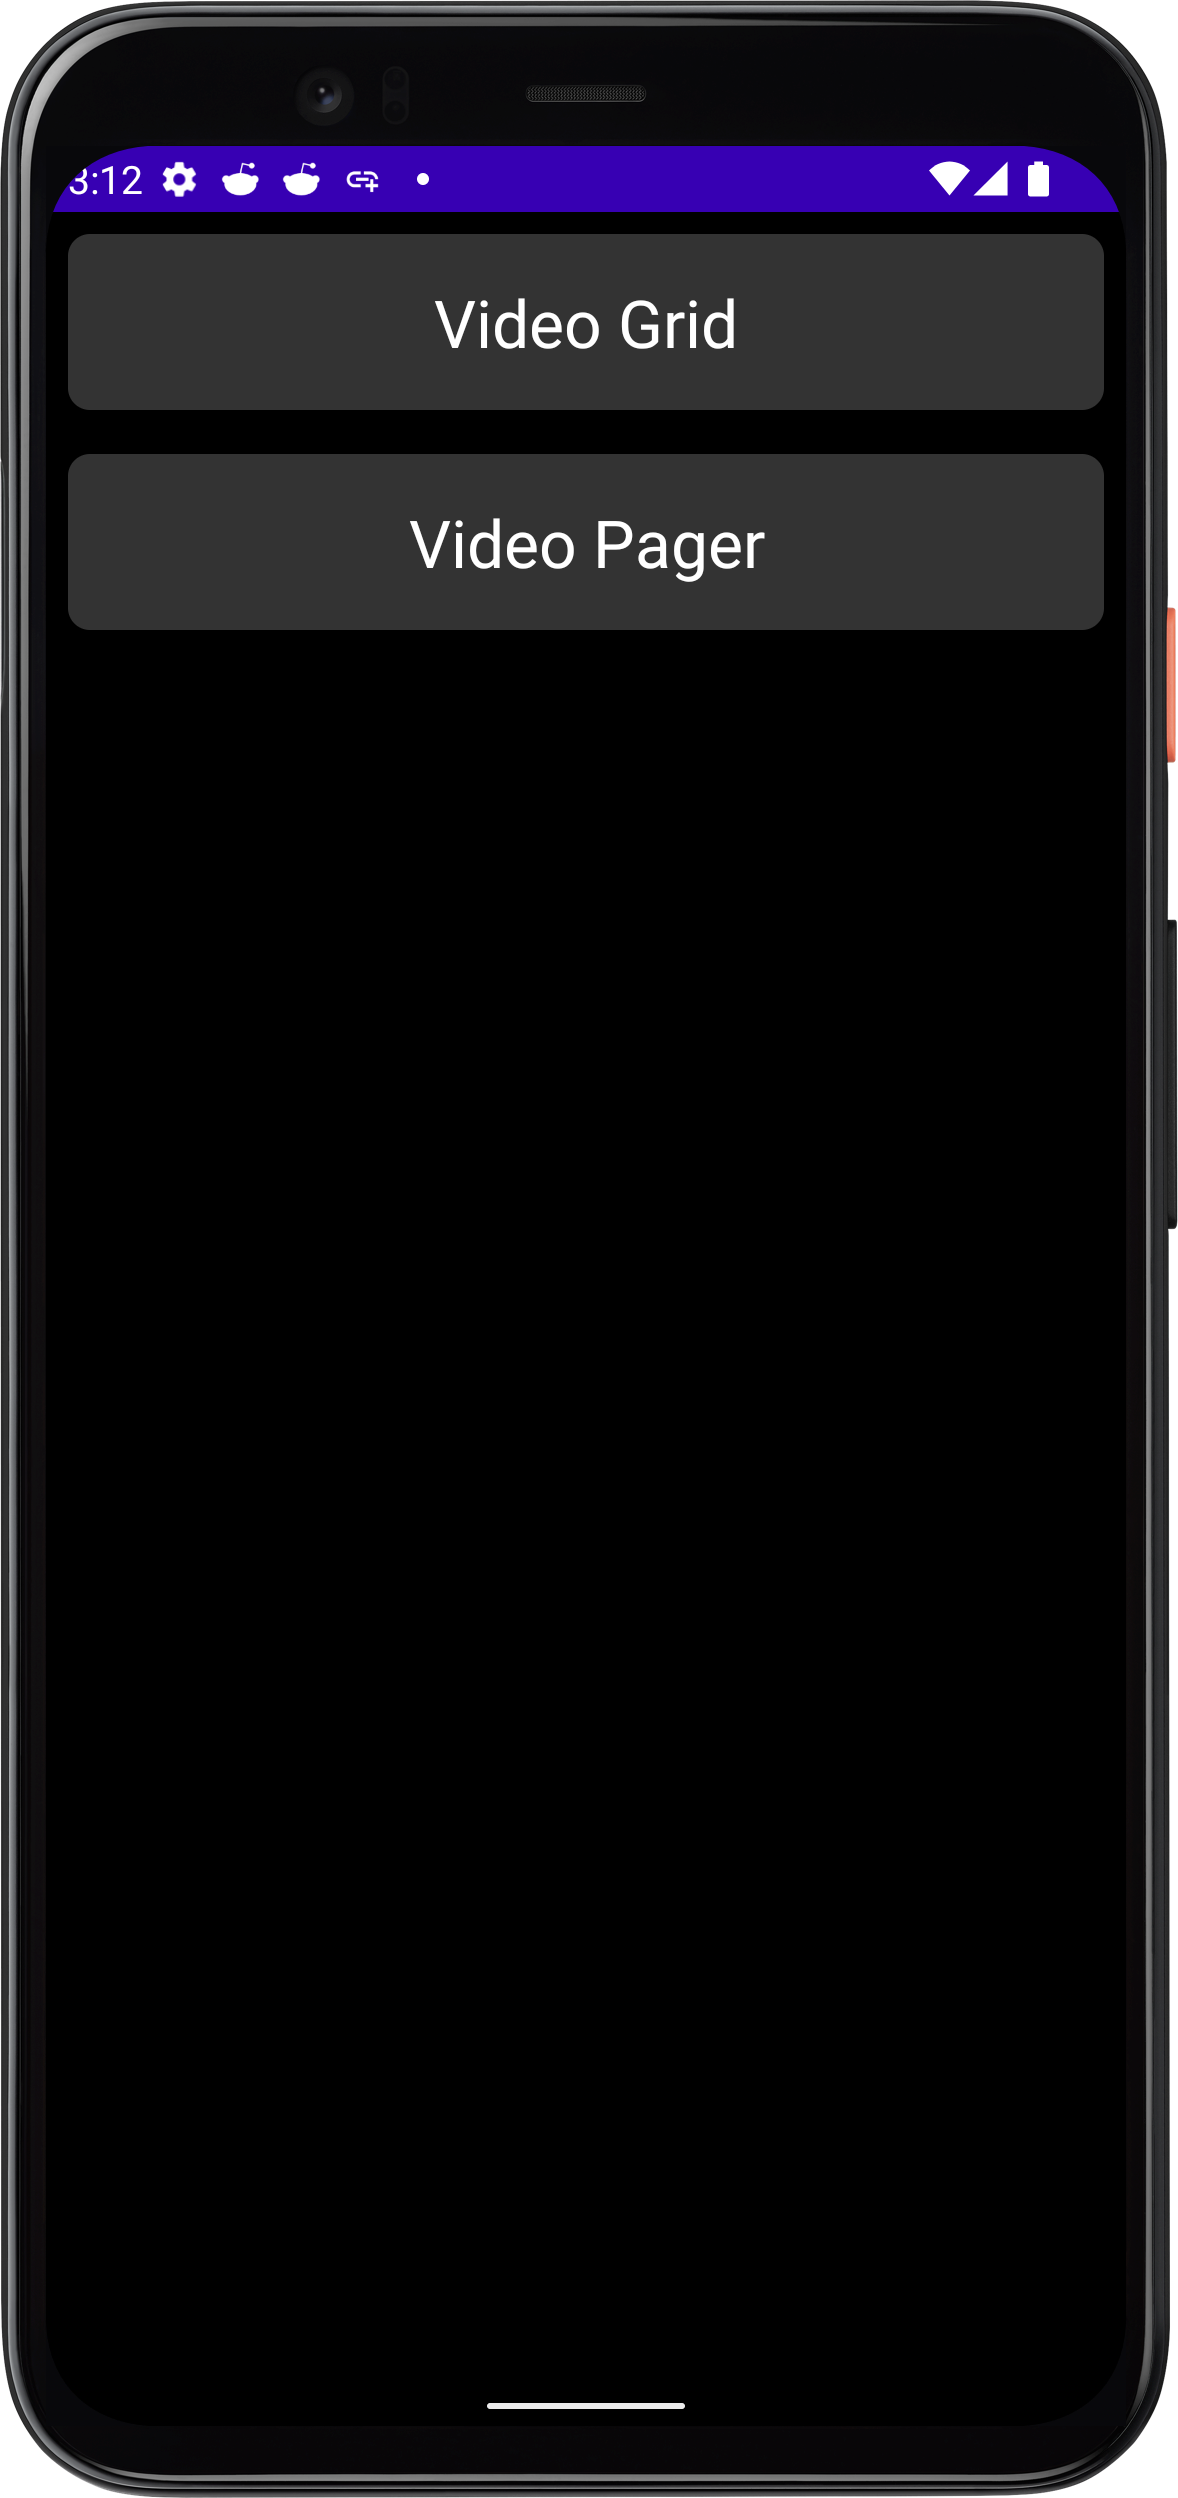
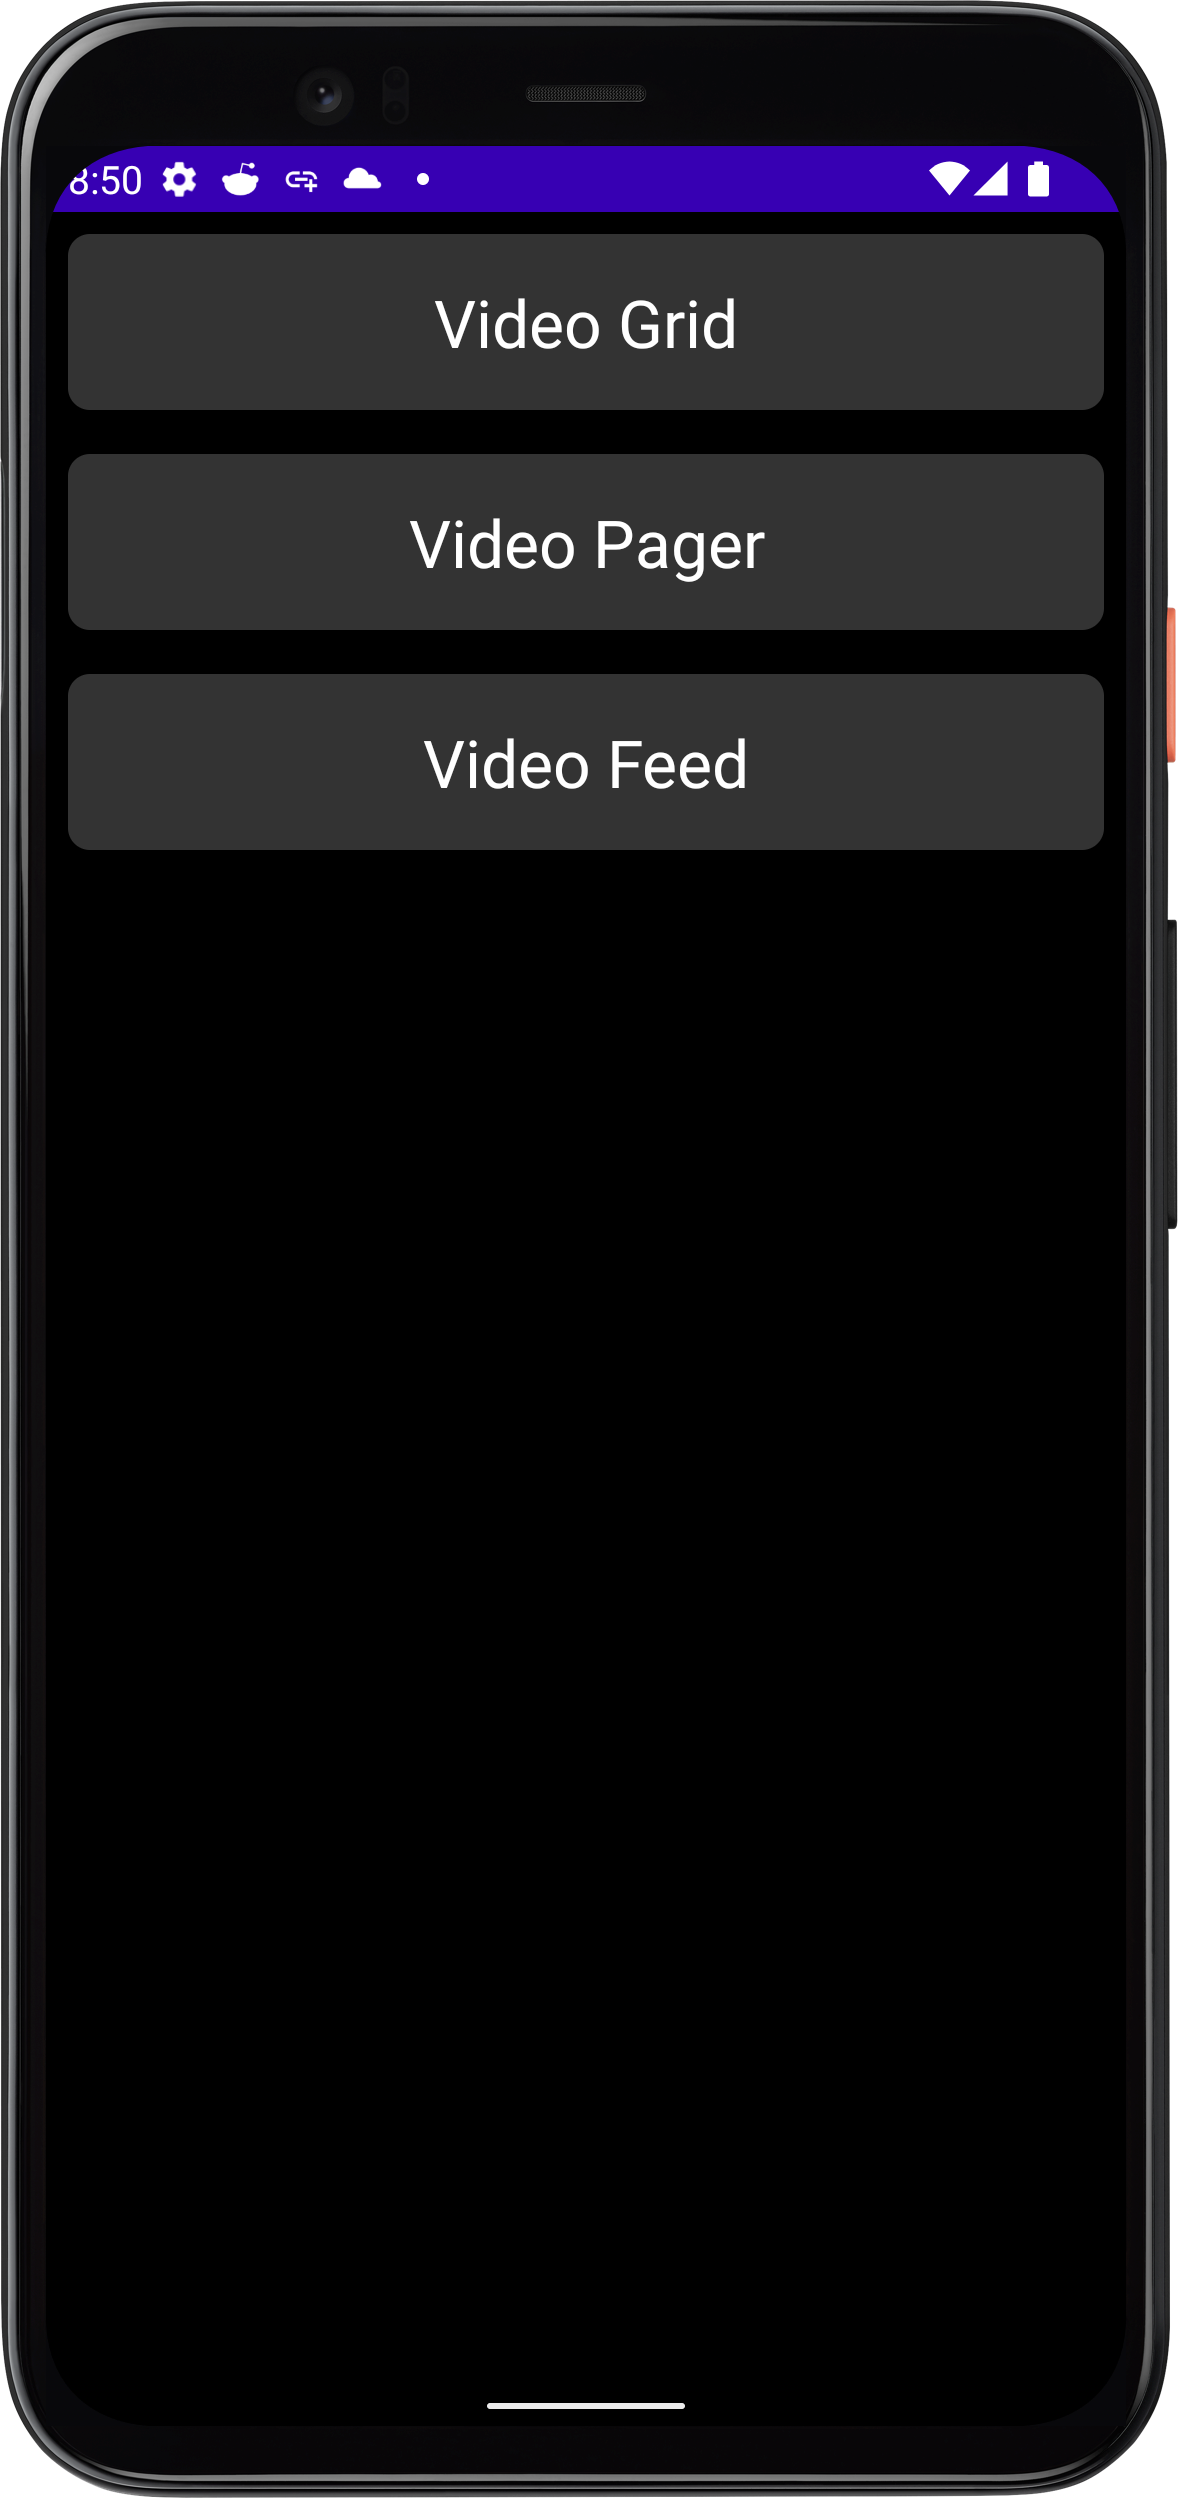
Add a basic video feed as the third major UI for this app

diff --git a/app/src/main/java/player/proto/ui/feed/FeedItemViewHolder.kt b/app/src/main/java/player/proto/ui/feed/FeedItemViewHolder.kt
@@ -1,0 +1,65 @@
+package player.proto.ui.feed
+
+import android.content.Context
+import android.view.LayoutInflater
+import android.view.ViewGroup
+import android.widget.Toast
+import androidx.recyclerview.widget.RecyclerView.ViewHolder
+import com.google.android.exoplayer2.ExoPlayer
+import com.google.android.exoplayer2.MediaItem
+import com.google.android.exoplayer2.PlaybackException
+import com.google.android.exoplayer2.Player
+import player.proto.databinding.FeedItemBinding
+
+class FeedItemViewHolder private constructor(
+    private val binding: FeedItemBinding
+): ViewHolder(binding.root) {
+
+    fun bind(feedItem: FeedItemUiModel) {
+        binding.textOverlay.text = feedItem.description
+        with (binding.video) {
+            useArtwork = true
+            useController = false
+            player?.run {
+                setMediaItem(MediaItem.fromUri(feedItem.mediaUrl))
+                prepare()
+                repeatMode = Player.REPEAT_MODE_ALL
+                playWhenReady = true
+                volume = 0f
+            }
+        }
+    }
+
+    fun unbind() {
+        with (binding) {
+            textOverlay.text = null
+            video.player?.stop()
+            video.player?.release()
+        }
+    }
+
+    internal class ErrorListener(private val context: Context): Player.Listener {
+        override fun onPlayerError(error: PlaybackException) {
+            Toast.makeText(context, error.errorCodeName, Toast.LENGTH_SHORT).show()
+            super.onPlayerError(error)
+        }
+    }
+
+    companion object {
+        fun create(
+            parent: ViewGroup,
+            onViewHolderClicked: (ViewHolder) -> Unit
+        ): FeedItemViewHolder {
+            with (FeedItemBinding.inflate(LayoutInflater.from(parent.context), parent, false)) {
+                video.player = ExoPlayer.Builder(video.context).build().apply {
+                    addListener(ErrorListener(parent.context))
+                }
+                return FeedItemViewHolder(this).apply {
+                    itemView.setOnClickListener {
+                        onViewHolderClicked.invoke(this)
+                    }
+                }
+            }
+        }
+    }
+}

diff --git a/app/src/main/java/player/proto/ui/feed/FeedViewModel.kt b/app/src/main/java/player/proto/ui/feed/FeedViewModel.kt
@@ -1,0 +1,59 @@
+package player.proto.ui.feed
+
+import androidx.lifecycle.ViewModel
+import androidx.lifecycle.ViewModelProvider
+import androidx.lifecycle.viewModelScope
+import kotlinx.coroutines.flow.MutableStateFlow
+import kotlinx.coroutines.flow.StateFlow
+import kotlinx.coroutines.flow.collect
+import kotlinx.coroutines.launch
+import player.proto.repo.Video
+import player.proto.repo.VideoRepository
+
+class FeedViewModel(params: Params): ViewModel() {
+    private val repository = params.repository
+    val feedItems: StateFlow<List<FeedItemUiModel>>
+        get() = _videos
+    private val _videos = MutableStateFlow<List<FeedItemUiModel>>(emptyList())
+
+    fun fetchFeedItems() {
+        viewModelScope.launch {
+            repository.getVideos(howMany = 8).collect { newVideos ->
+                _videos.value = newVideos.map { it.toVideoUiModel() }
+            }
+        }
+    }
+
+    private fun Video.toVideoUiModel(): FeedItemUiModel {
+        val format = formats.pickBestType()
+        return FeedItemUiModel(
+            id = id,
+            description = "[${format.name}] $description",
+            mediaUrl = formats.urls[format]!!,
+            thumbnailUrl = thumbnail.url,
+            dimensions = FeedItemUiModel.Dimensions(
+                height = formats.dimensions.height,
+                width = formats.dimensions.width,
+            ),
+            externalUrl = detailLink,
+        )
+    }
+
+    private fun Video.Formats.pickBestType(): Video.Type {
+        return if (Video.Type.MP4 in urls) {
+            Video.Type.MP4
+        } else {
+            urls.keys.random()
+        }
+    }
+
+    class Factory(private val params: Params) : ViewModelProvider.Factory {
+        override fun <T : ViewModel> create(modelClass: Class<T>): T {
+            return modelClass.getConstructor(params::class.java).newInstance(params)
+        }
+    }
+
+    data class Params(
+        val repository: VideoRepository,
+    )
+}

diff --git a/app/src/main/java/player/proto/ui/feed/FeedFragment.kt b/app/src/main/java/player/proto/ui/feed/FeedFragment.kt
@@ -1,0 +1,51 @@
+package player.proto.ui.feed
+
+import android.content.Intent
+import android.net.Uri
+import android.os.Bundle
+import android.view.LayoutInflater
+import android.view.View
+import android.view.ViewGroup
+import androidx.fragment.app.Fragment
+import androidx.fragment.app.viewModels
+import androidx.lifecycle.lifecycleScope
+import androidx.recyclerview.widget.LinearLayoutManager
+import kotlinx.coroutines.flow.collect
+import kotlinx.coroutines.launch
+import player.proto.data.ResourceLoader
+import player.proto.databinding.FragmentFeedBinding
+import player.proto.repo.VideoResourceRepository
+
+class FeedFragment : Fragment() {
+    private val viewModel: FeedViewModel by viewModels {
+        FeedViewModel.Factory(
+            params = FeedViewModel.Params(
+                repository = VideoResourceRepository(ResourceLoader(resources))
+            )
+        )
+    }
+
+    override fun onCreateView(
+        inflater: LayoutInflater,
+        container: ViewGroup?,
+        savedInstanceState: Bundle?
+    ): View {
+        val adapter = FeedAdapter { selectedFeedItem ->
+            startActivity(Intent(Intent.ACTION_VIEW).apply {
+                data = Uri.parse(selectedFeedItem.externalUrl)
+            })
+        }
+        val view = FragmentFeedBinding.inflate(layoutInflater, container, false)
+        view.feed.layoutManager = LinearLayoutManager(view.root.context)
+        view.feed.adapter = adapter
+
+        viewLifecycleOwner.lifecycleScope.launch {
+            viewModel.feedItems.collect { newItems ->
+                adapter.submitList(newItems)
+            }
+        }
+        viewModel.fetchFeedItems()
+
+        return view.root
+    }
+}

diff --git a/app/src/main/java/player/proto/ui/feed/FeedAdapter.kt b/app/src/main/java/player/proto/ui/feed/FeedAdapter.kt
@@ -1,0 +1,29 @@
+package player.proto.ui.feed
+
+import android.view.ViewGroup
+import androidx.recyclerview.widget.DiffUtil
+import androidx.recyclerview.widget.ListAdapter
+
+class FeedAdapter(
+    private val onFeedItemClicked: (FeedItemUiModel) -> Unit
+) : ListAdapter<FeedItemUiModel, FeedItemViewHolder>(ModelDiffCallback) {
+
+    override fun onCreateViewHolder(parent: ViewGroup, viewType: Int): FeedItemViewHolder {
+        return FeedItemViewHolder.create(parent) {
+            onFeedItemClicked.invoke(getItem(it.bindingAdapterPosition))
+        }
+    }
+
+    override fun onBindViewHolder(holder: FeedItemViewHolder, position: Int) {
+        holder.bind(feedItem = getItem(position))
+    }
+
+    override fun onViewRecycled(holder: FeedItemViewHolder) {
+        holder.unbind()
+    }
+
+    object ModelDiffCallback: DiffUtil.ItemCallback<FeedItemUiModel>() {
+        override fun areItemsTheSame(old: FeedItemUiModel, new: FeedItemUiModel) = old.id == new.id
+        override fun areContentsTheSame(old: FeedItemUiModel, new: FeedItemUiModel) = old == new
+    }
+}

diff --git a/app/src/main/java/player/proto/ui/landing/LandingViewModel.kt b/app/src/main/java/player/proto/ui/landing/LandingViewModel.kt
@@ -3,6 +3,7 @@ package player.proto.ui.landing
 import androidx.lifecycle.ViewModel
 import androidx.lifecycle.ViewModelProvider
 import kotlinx.coroutines.flow.flowOf
+import player.proto.ui.landing.LandingFragmentDirections.Companion.actionLandingFragmentToFeedFragment
 import player.proto.ui.landing.LandingFragmentDirections.Companion.actionLandingFragmentToVideoGridFragment
 import player.proto.ui.landing.LandingFragmentDirections.Companion.actionLandingFragmentToVideoPagerFragment
 
@@ -18,6 +19,11 @@ class LandingViewModel : ViewModel() {
                 id = 2,
                 message = "Video Pager",
                 navigationTarget = actionLandingFragmentToVideoPagerFragment(),
+            ),
+            ListItemModel(
+                id = 3,
+                message = "Video Feed",
+                navigationTarget = actionLandingFragmentToFeedFragment(),
             )
         )
     )

diff --git a/app/src/main/java/player/proto/ui/feed/FeedItemUiModel.kt b/app/src/main/java/player/proto/ui/feed/FeedItemUiModel.kt
@@ -1,0 +1,15 @@
+package player.proto.ui.feed
+
+data class FeedItemUiModel(
+    val id: String,
+    val description: String?,
+    val mediaUrl: String,
+    val thumbnailUrl: String,
+    val dimensions: Dimensions,
+    val externalUrl: String,
+) {
+    data class Dimensions(
+        val height: Int,
+        val width: Int,
+    )
+}

diff --git a/README.md b/README.md
@@ -14,9 +14,19 @@ populate the surfaces while they are not attached to active video. The
 grid view will instead use a carousel of images to simulate video
 playback; it won't use ExoPlayer at all.
 
+## Menu
+
 <img src="screenshots/menu.png" width="200px" />
+
+## Video Feed
+
+<img src="screenshots/feed.png" width="200px" />
+
+## Video Grid
+
 <img src="screenshots/grid.png" width="200px" />
+
+## Video Pager
+
 <img src="screenshots/fbp.png" width="200px" />
-
-
 
